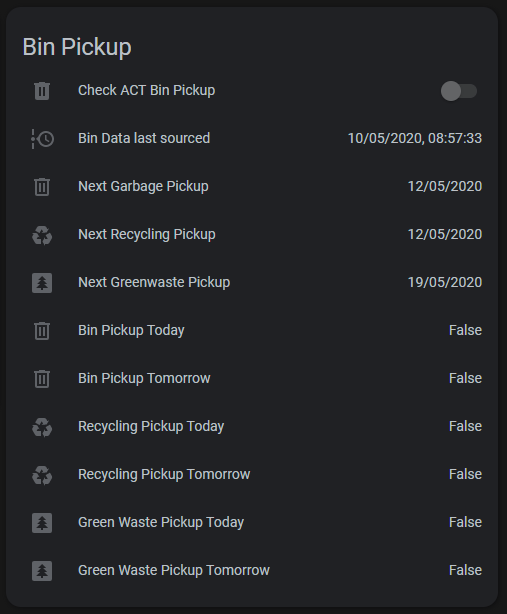
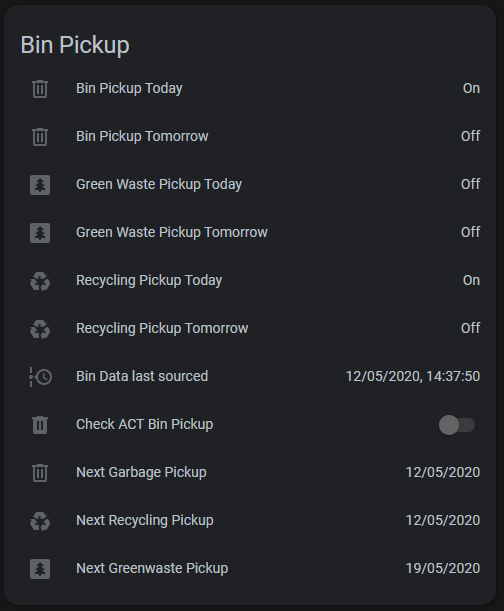
Updated to on and off

diff --git a/apps/act_garbage/act_garbage.py b/apps/act_garbage/act_garbage.py
@@ -122,34 +122,34 @@ class Get_ACT_Garbage(hass.Hass):
             
                 #binary values for bin
                 if str(suburbs["garbage_pickup_date"]) == date_date: 
-                    bin_tod_state = True
-                    bin_tom_state = False
+                    bin_tod_state = 'on'
+                    bin_tom_state = 'off'
                 elif str(suburbs["garbage_pickup_date"]) == tomorrow_date: 
-                    bin_tod_state = False
-                    bin_tom_state = True
+                    bin_tod_state = 'off'
+                    bin_tom_state = 'on'
                 else:
-                    bin_tod_state = False
-                    bin_tom_state = False
+                    bin_tod_state = 'off'
+                    bin_tom_state = 'off'
                 #binary values for rec
                 if str(suburbs["recycling_pickup_date"]) == date_date:
-                    rec_tod_state = True
-                    rec_tom_state = False
+                    rec_tod_state = 'on'
+                    rec_tom_state = 'off'
                 elif str(suburbs["recycling_pickup_date"]) == tomorrow_date:
-                    rec_tod_state = False
-                    rec_tom_state = True
+                    rec_tod_state = 'off'
+                    rec_tom_state = 'on'
                 else:
-                    rec_tod_state = False
-                    rec_tom_state = False
+                    rec_tod_state = 'off'
+                    rec_tom_state = 'off'
                 #binary values for greenwaste
                 if str(suburbs["next_greenwaste_date"]) == date_date:
-                    gre_tod_state = True
-                    gre_tom_state = False
+                    gre_tod_state = 'on'
+                    gre_tom_state = 'off'
                 elif str(suburbs["next_greenwaste_date"]) == tomorrow_date:
-                    gre_tod_state = False
-                    gre_tom_state = True
+                    gre_tod_state = 'off'
+                    gre_tom_state = 'on'
                 else:
-                    gre_tod_state = False
-                    gre_tom_state = False
+                    gre_tod_state = 'off'
+                    gre_tom_state = 'off'
 
         #if nothing can be found
         if sub_found == False:
@@ -157,12 +157,12 @@ class Get_ACT_Garbage(hass.Hass):
             self.set_state(self.bin_sensor, state="No Suburb", replace=True, attributes= {"icon": self.bin_mdi, "friendly_name": "Next Garbage Pickup" })
             self.set_state(self.recy_sensor, state="No Suburb", replace=True, attributes= {"icon": self.recy_mdi, "friendly_name": "Next Recycling Pickup" })
             self.set_state(self.green_sensor, state="No Suburb", replace=True, attributes= {"icon": self.green_mdi, "friendly_name": "Next Greenwaste Pickup"})
-            bin_tod_state = False
-            bin_tom_state = False
-            rec_tod_state = False
-            rec_tom_state = False
-            gre_tod_state = False
-            gre_tom_state = False
+            bin_tod_state = 'off'
+            bin_tom_state = 'off'
+            rec_tod_state = 'off'
+            rec_tom_state = 'off'
+            gre_tod_state = 'off'
+            gre_tom_state = 'off'
 
 
         #finally create the binary sensors
